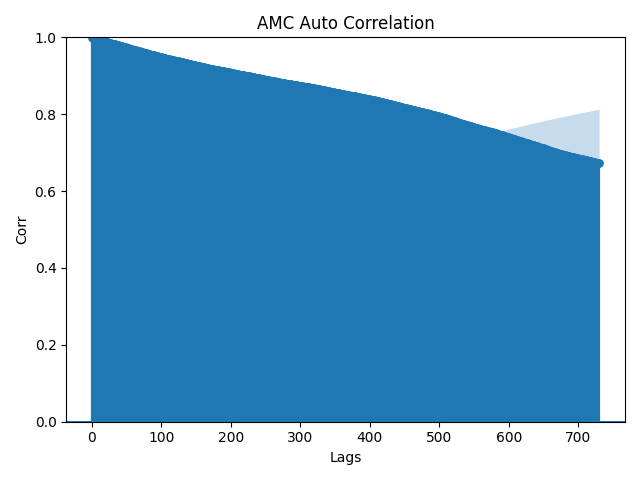
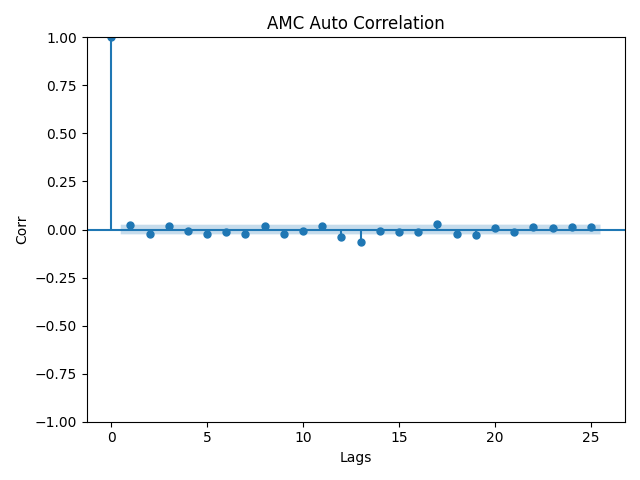
added ADF test, and differenced data

diff --git a/EDA.py b/EDA.py
@@ -3,6 +3,8 @@ import numpy as np
 import matplotlib.pyplot as plt
 import matplotlib.dates as mdates
 from statsmodels.graphics.tsaplots import plot_acf
+from statsmodels.graphics.tsaplots import plot_pacf
+from statsmodels.tsa.stattools import adfuller
 import seaborn as sns
 import os
 from pathlib import Path
@@ -22,9 +24,17 @@ def create_output_folder(file_name, ticker):
     dirName = f"EDAOutput/EDA_{ticker}"
     os.makedirs(dirName, exist_ok=True)
 
-def summarise_data(data, file_path):
+def summarise_data(data, file_path): #fix!!!
     ticker = get_ticker(file_path)
     data = pd.read_csv(file_path)
+
+    result = adfuller(data["Close"].diff().dropna())
+    station = ""
+
+    if (result[1] <= 0.05) & (result[4]['5%'] > result[0]):
+        station = "Stationary"
+    else:
+        station = "Non-stationary"
 
     with open(f"EDAOutput/EDA_{ticker}/{ticker}.txt", 'w+') as f:
         f.write(f"{ticker} EDA Output:\n")
@@ -33,7 +43,10 @@ def summarise_data(data, file_path):
         f.write(f"Tail: \n{data.tail()}\n")
         f.write(f"Shape: \n{data.shape}\n")
         f.write(f"{data.info(verbose=True)}\n")
-        f.write(f"Empty Cells: \n{data.isnull().sum()}")
+        f.write(f"Empty Cells: \n{data.isnull().sum()}\n")
+        f.write(f"ADF Statistic: {result[0]}. P-value: {result[1]}\n")
+        f.write(f"The close price data is {station}")
+
 
 # Visualisation 1 - Histogram
 def genHistogram(data, ticker):
@@ -67,7 +80,6 @@ def genCorrMatrix(data, ticker):
     sns.heatmap(corr_matrix, cmap="YlGnBu", annot=True)
     plt.savefig(file_path)
     plt.clf()
-
 # Visualisation 3 - Line Graph
 def genLineGraph(data, ticker):
     dirName = f"EDAOutput/EDA_{ticker}"
@@ -85,7 +97,6 @@ def genLineGraph(data, ticker):
 
     plt.savefig(file_path)
     plt.clf()
-
 # Visualisation X - gen line subplots
 def genLineSub():
     datasets = Path("datasets").rglob("*.csv")
@@ -117,8 +128,8 @@ def autoCorrACF(data, ticker):
     file_path = f"{dirName}/{ticker}_AutoCorr.png"
 
     plt.figure(figsize=(20,15))
-    plot_acf(data["Close"], lags=730)#two years is 730 days
-    plt.ylim(0,1)
+    plot_acf(data["Close"].diff().dropna(), lags=25)#two years is 730 days
+    # plt.ylim(0,1)
     plt.xlabel("Lags")
     plt.ylabel("Corr")
     plt.title(f"{ticker} Auto Correlation")
@@ -127,6 +138,20 @@ def autoCorrACF(data, ticker):
     plt.savefig(file_path)
     plt.clf()
 
+def autoCorrPACF(data, ticker):
+    dirName = f"EDAOutput/EDA_{ticker}"
+    file_path = f"{dirName}/{ticker}_PartialAutoCorr.png"
+
+    plt.figure(figsize=(20,15))
+    plot_pacf(data["Close"], lags=50)#two years is 730 days
+    # plt.ylim(0,1)
+    plt.xlabel("Lags")
+    plt.ylabel("Corr")
+    plt.title(f"{ticker} PACF")
+
+    plt.tight_layout()
+    plt.savefig(file_path)
+    plt.clf()
 
 def autoCorrMPL():
     datasets = Path("datasets").rglob("*.csv")
@@ -141,7 +166,7 @@ def autoCorrMPL():
         df["Date"] = pd.to_datetime(df["Date"])
 
         ax = plt.subplot(3,3,i)
-        ax.acorr(df["Close"], usevlines=True, normed=True, maxlags=730, lw=2)
+        ax.acorr(df["Close"], usevlines=True, normed=True, maxlags=250, lw=2)
         ax.set_title(f"{ticker} AutoCorr")
 
     plt.tight_layout()
@@ -179,6 +204,7 @@ def main():
         # genCorrMatrix(df, ticker)
         # genLineGraph(df, ticker)
         # autoCorrACF(df, ticker)
+        # autoCorrPACF(df, ticker)
 
     # genLineSub()
     # autoCorrMPL()
